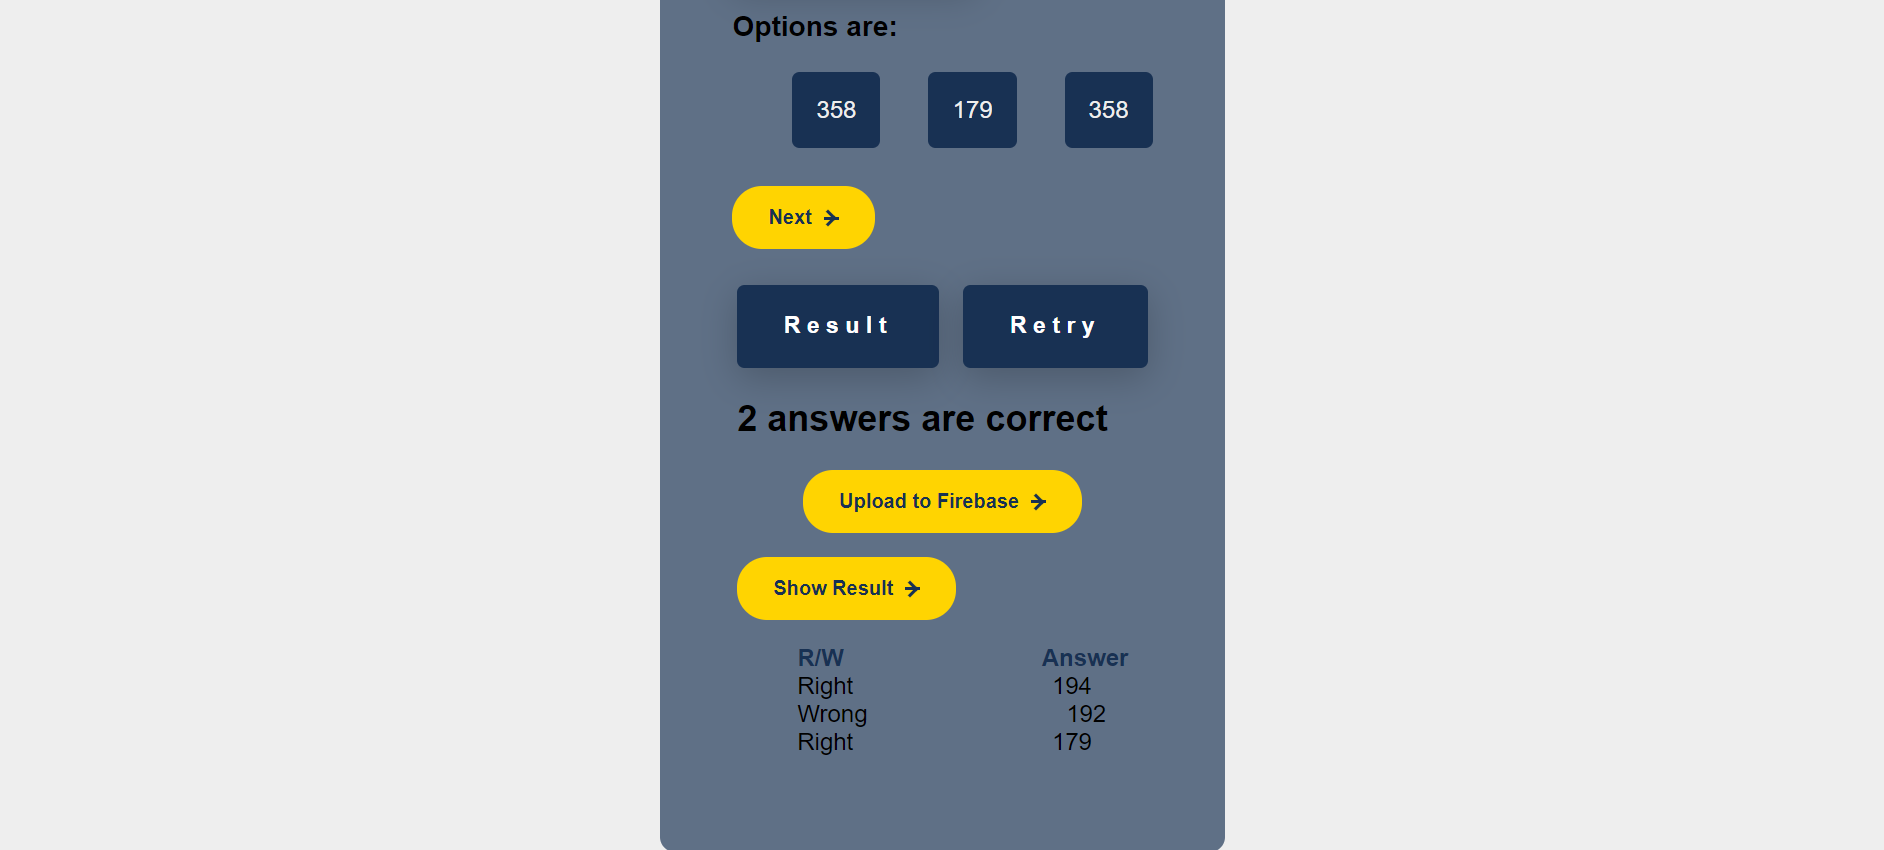
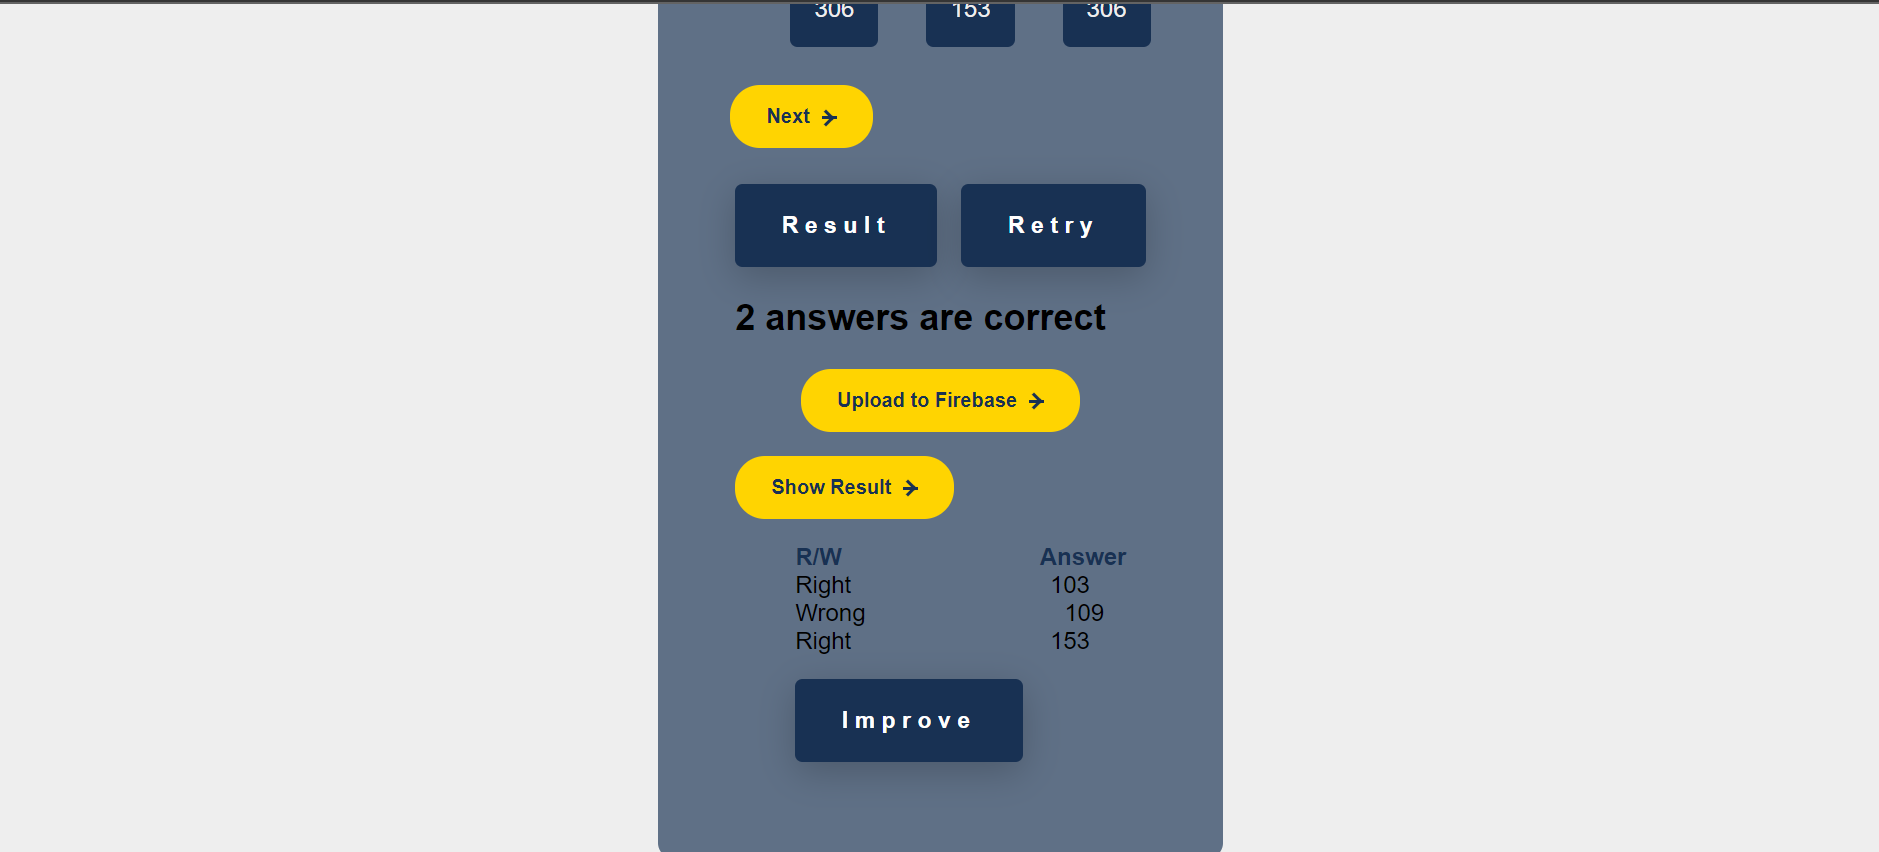
added video

Changed region(s): [[0.3704, 0.2141, 0.6173, 0.9176], [0.0, 0.0, 1.0, 0.1835]]

diff --git a/src/components/Game.jsx b/src/components/Game.jsx
@@ -42,8 +42,8 @@ const Game = () => {
 
   const handleRetry = () => {
     setNum(0);
-    setIsShow(false)
-    setIsShown(false)
+    setIsShow(false);
+    setIsShown(false);
   };
 
   const handleShow = () => {
@@ -56,8 +56,7 @@ const Game = () => {
 
   const handleClick = () => {
     setNum(randomNumberInRange(100, 200));
-    setShow(true)
-    
+    setShow(true);
   };
 
   const handleScore = () => {
@@ -104,14 +103,14 @@ const Game = () => {
               </li>
             </ul>
             {show && (
-            <div className="next-container">
-              <button className="btn-primary" onClick={handleClick}>
-                Next
-                <span className="arrow-wrapper">
-                  <span className="arrow"></span>
-                </span>
-              </button>
-            </div>
+              <div className="next-container">
+                <button className="btn-primary" onClick={handleClick}>
+                  Next
+                  <span className="arrow-wrapper">
+                    <span className="arrow"></span>
+                  </span>
+                </button>
+              </div>
             )}
           </div>
           <div className="inner-container">
@@ -154,6 +153,9 @@ const Game = () => {
                         {res.check} {res.answer}
                       </li>
                     ))}
+                    <button onClick={handleRetry} className="btn-secondary marg">
+                      <span className="btn-secondary__span">Improve</span>
+                    </button>
                   </ul>
                 )}
               </div>

diff --git a/README.md b/README.md
@@ -10,6 +10,7 @@
 <img src="https://github.com/aliraza-devv/final-randomquiz/blob/main/Output/8.png" alt="Output" />
 <img src="https://github.com/aliraza-devv/final-randomquiz/blob/main/Output/9.png" alt="Output" />
 <img src="https://github.com/aliraza-devv/final-randomquiz/blob/main/Output/10.png" alt="Output" />
+<img src="https://github.com/aliraza-devv/final-randomquiz/blob/main/Output/video.gif" alt="Output" />
 
 This project was bootstrapped with [Create React App](https://github.com/facebook/create-react-app).
 
